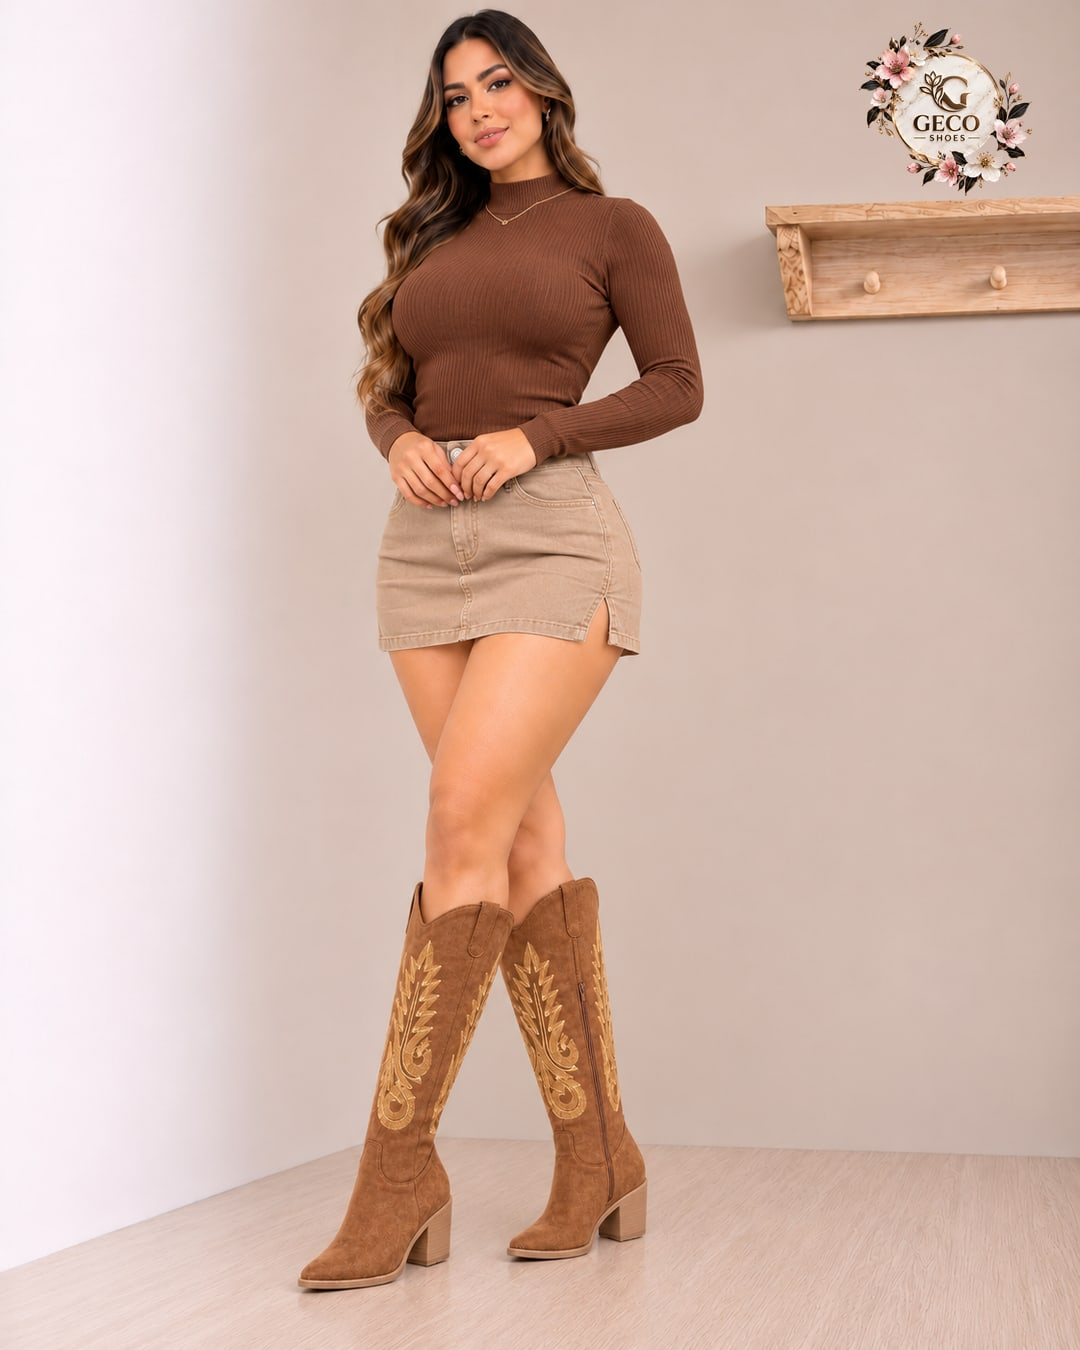
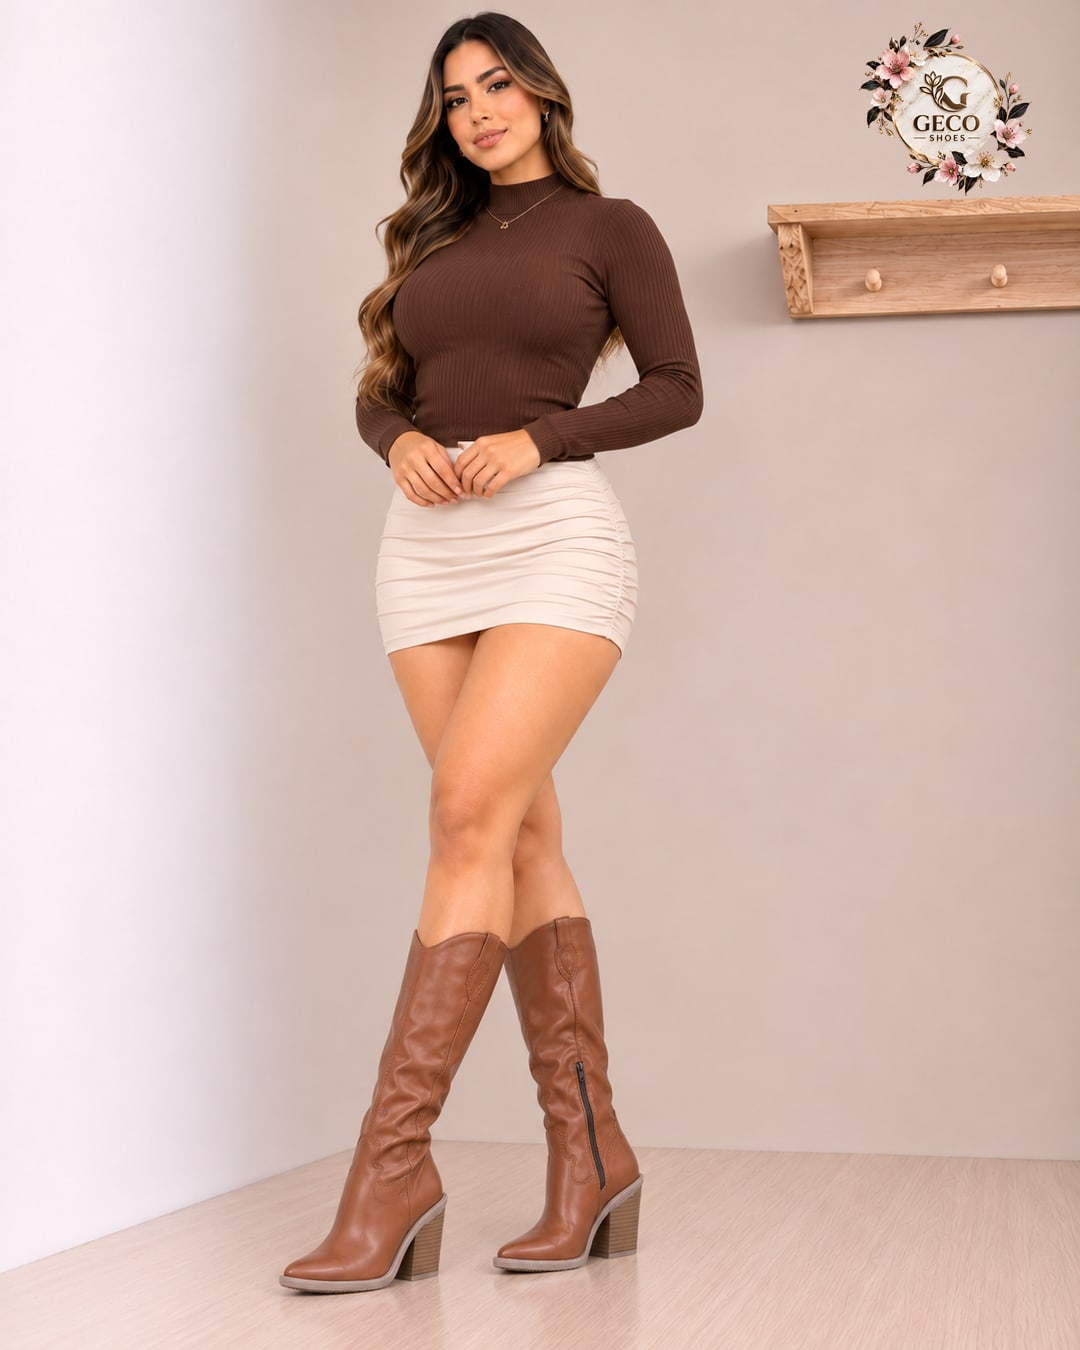
Geco: Texana Aguila con modelo por color

diff --git a/index.html b/index.html
@@ -1182,39 +1182,47 @@
     "n": "Café",
     "c": "#5a3a28",
     "fam": "Café",
-    "src": "img/estudio-cafe/geco-mi-007-a.jpg",
-    "foto": "img/estudio-cafe/geco-mi-007-a.jpg",
+    "src": "img/estudio/texana-cafe.jpg",
+    "foto": "img/estudio/texana-cafe.jpg",
     "orig": "img/proveedor/web/mi-007-a.webp",
-    "det": "img/detalle/mi-007-a.jpg"
+    "det": "img/detalle-estudio/texana-cafe.jpg",
+    "modelo": "img/modelo/texana-cafe.jpg"
    },
    {
     "n": "Camel",
     "c": "#B9763A",
     "fam": "Café",
-    "src": "img/estudio-cafe/geco-mi-007-b.jpg",
-    "foto": "img/estudio-cafe/geco-mi-007-b.jpg",
+    "src": "img/estudio/texana-camel.jpg",
+    "foto": "img/estudio/texana-camel.jpg",
     "orig": "img/proveedor/web/mi-007-b.webp",
-    "det": "img/detalle/mi-007-b.jpg"
+    "det": "img/detalle-estudio/texana-camel.jpg",
+    "modelo": "img/modelo/texana-camel.jpg"
    },
    {
     "n": "Camel 2",
     "c": "#B9763A",
     "fam": "Café",
-    "src": "img/estudio-cafe/geco-mi-007-c.jpg",
-    "foto": "img/estudio-cafe/geco-mi-007-c.jpg",
+    "src": "img/estudio/texana-camel.jpg",
+    "foto": "img/estudio/texana-camel.jpg",
     "orig": "img/proveedor/web/mi-007-c.webp",
-    "det": "img/detalle/mi-007-c.jpg"
+    "det": "img/detalle-estudio/texana-camel.jpg",
+    "modelo": "img/modelo/texana-camel.jpg"
    },
    {
     "n": "Azul",
     "c": "#22304a",
     "fam": "Jean",
-    "src": "img/estudio-cafe/geco-mi-008-b.jpg",
-    "foto": "img/estudio-cafe/geco-mi-008-b.jpg",
+    "src": "img/estudio/texana-azul.jpg",
+    "foto": "img/estudio/texana-azul.jpg",
     "orig": "img/proveedor/web/mi-008-b.webp",
-    "det": "img/detalle/mi-008-b.jpg"
+    "det": "img/detalle-estudio/texana-azul.jpg",
+    "modelo": "img/modelo/texana-azul.jpg"
    }
-  ]
+  ],
+  "modelo": {
+   "src": "img/modelo/texana-cafe.jpg",
+   "color": "Café"
+  }
  },
  {
   "ref": "P08",
